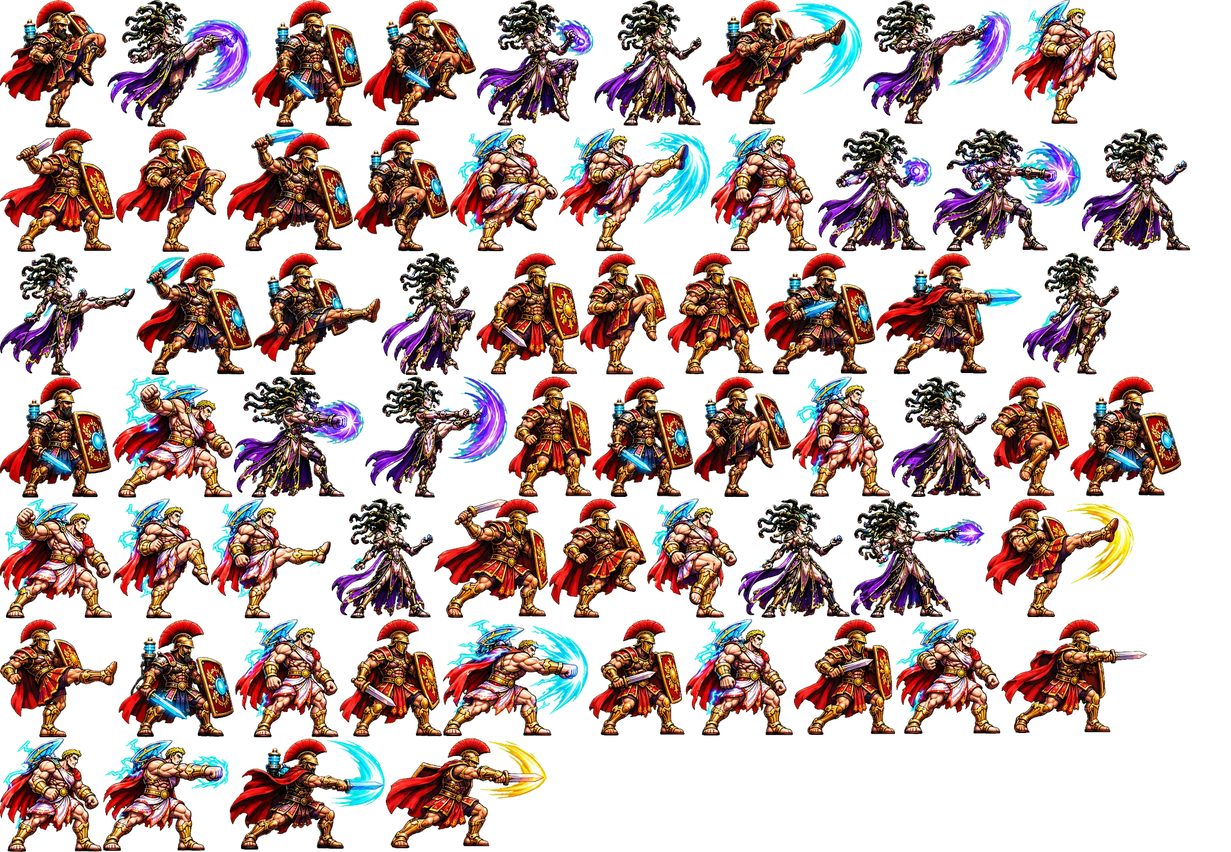
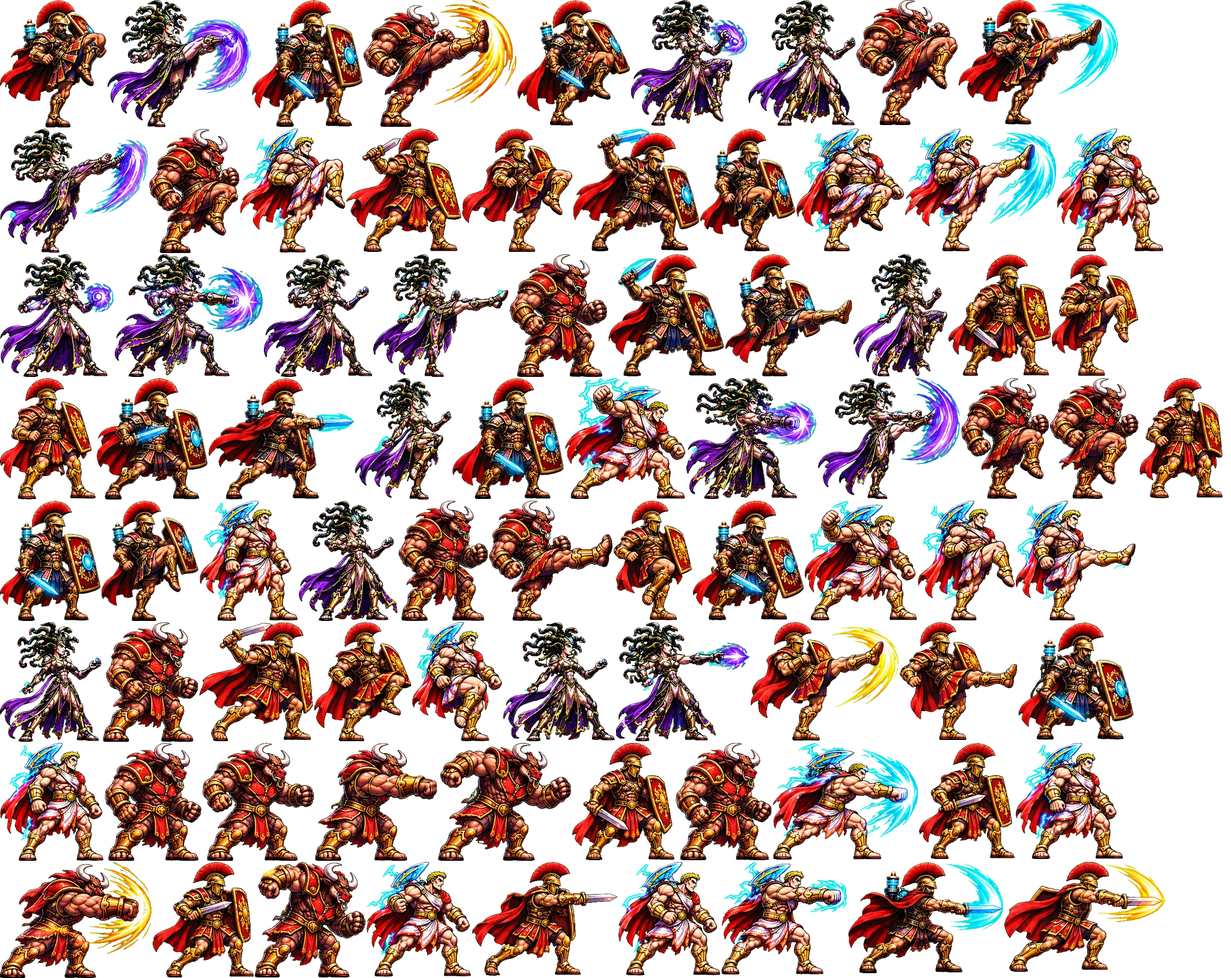
Roman Arena: 4-phase attack animation for Minotaur Engine
Claude-Session: https://claude.ai/code/session_01T4Ncn2a53aA1ppsRCuEJwC

diff --git a/fight/game.js b/fight/game.js
@@ -193,7 +193,7 @@
   const NATIVE = {"colossus":1,"medusa":1,"minotaur":1,"pegasus":1,"helios":1,"mars":-1,"neptune":1,"vulcan":1,"chiron":-1,"diana":1,"cerberus":1,"hades":1};   // which way each portrait faces in the art
   const FATLAS = {"f_mars":{"idle":[[1689,673,136,200,70,200],[1827,673,127,200,64,200]],"walk":[[741,1079,114,199,60,199],[1689,673,136,200,70,200],[1562,1079,114,198,62,198],[1689,673,136,200,70,200]],"jump":[[1562,1079,114,198,62,198]],"light":[[0,2062,161,187,72,187]],"heavy":[[753,2251,199,180,92,180]],"lkick":[[0,1676,164,192,66,192]],"hkick":[[166,1676,194,192,62,192]],"hurt":[[1337,2062,172,184,72,184]],"ko":[[1337,2062,172,184,72,184],[782,2768,239,64,119,64]],"special":[[1385,0,197,220,96,220]],"victory":[[857,1079,147,199,70,199]]},"f_colossus":{"idle":[[0,877,137,200,88,200],[139,877,129,200,80,200]],"walk":[[1811,1079,161,197,92,197],[0,877,137,200,88,200],[326,1281,140,196,92,196],[0,877,137,200,88,200]],"jump":[[326,1281,140,196,92,196]],"light":[[1755,1870,196,188,100,188]],"heavy":[[1734,2062,220,182,94,182]],"lkick":[[656,1480,146,193,92,193]],"hkick":[[1357,1870,227,189,90,189]],"hurt":[[614,2062,182,186,114,186]],"ko":[[614,2062,182,186,114,186],[1023,2768,223,63,111,63]],"special":[[1349,243,224,211,114,211]],"victory":[[1575,243,161,210,102,210]]},"f_medusa":{"idle":[[270,877,125,200,61,200],[1006,1079,139,199,61,199]],"walk":[[1793,1281,121,194,61,194],[270,877,125,200,61,200],[1248,1281,131,195,69,195],[270,877,125,200,61,200]],"jump":[[1248,1281,131,195,69,195]],"light":[[1546,2251,163,178,71,178]],"heavy":[[1183,2435,209,168,83,168]],"lkick":[[798,2062,123,185,55,185]],"hkick":[[923,2062,205,185,57,185]],"hurt":[[1656,2435,138,162,83,162]],"ko":[[1656,2435,138,162,83,162],[1507,2768,211,59,105,59]],"special":[[211,243,183,215,85,215]],"victory":[[1739,1676,135,190,69,190]]},"f_minotaur":{"idle":[[397,877,158,200,75,200],[929,461,146,205,75,205]],"walk":[[0,1281,137,197,63,197],[397,877,158,200,75,200],[468,1281,136,196,59,196],[397,877,158,200,75,200]],"jump":[[468,1281,136,196,59,196]],"light":[[1511,2062,221,183,91,183]],"heavy":[[163,2062,241,187,113,187]],"lkick":[[606,1281,134,196,71,196]],"hkick":[[742,1281,233,196,77,196]],"hurt":[[804,1480,177,193,85,193]],"ko":[[804,1480,177,193,85,193],[533,2768,247,69,123,69]],"special":[[437,461,244,208,117,208]],"victory":[[1738,243,186,210,103,210]]},"f_vulcan":{"idle":[[557,877,155,200,74,200],[933,673,153,201,74,201]],"walk":[[1774,461,154,202,70,202],[557,877,155,200,74,200],[1147,1079,167,199,80,199],[557,877,155,200,74,200]],"jump":[[1147,1079,167,199,80,199]],"light":[[954,2251,219,180,86,180]],"heavy":[[0,1870,243,190,136,190]],"lkick":[[362,1676,196,192,78,192]],"hkick":[[560,1676,238,192,80,192]],"hurt":[[0,1480,174,194,86,194]],"ko":[[0,1480,174,194,86,194],[1411,2614,250,85,125,85]],"special":[[1088,673,231,201,120,201]],"victory":[[484,0,202,235,90,235]]},"f_chiron":{"idle":[[714,877,162,200,81,200],[878,877,167,200,85,200]],"walk":[[800,1676,176,192,93,192],[714,877,162,200,81,200],[1563,1676,174,191,97,191],[714,877,162,200,81,200]],"jump":[[1563,1676,174,191,97,191]],"light":[[978,1676,189,192,101,192]],"heavy":[[176,1480,237,194,85,194]],"lkick":[[0,461,199,210,61,210]],"hkick":[[683,461,244,208,61,208]],"hurt":[[1047,877,171,200,75,200]],"ko":[[1047,877,171,200,75,200],[1663,2614,254,79,127,79]],"special":[[1584,0,238,220,103,220]],"victory":[[956,0,190,225,89,225]]},"f_diana":{"idle":[[1220,877,131,200,69,200],[1321,673,130,201,69,201]],"walk":[[1678,1079,131,198,71,198],[1220,877,131,200,69,200],[1169,1676,137,192,75,192],[1220,877,131,200,69,200]],"jump":[[1169,1676,137,192,75,192]],"light":[[1586,1870,167,189,83,189]],"heavy":[[1711,2251,235,177,119,177]],"lkick":[[1381,1281,184,195,53,195]],"hkick":[[1567,1281,224,195,55,195]],"hurt":[[1175,2251,165,180,77,180]],"ko":[[1175,2251,165,180,77,180],[1248,2768,257,63,128,63]],"special":[[1148,0,235,224,81,224]],"victory":[[1824,0,150,216,71,216]]},"f_cerberus":{"idle":[[1353,877,244,200,122,200],[1316,1079,244,199,122,199]],"walk":[[0,2251,239,182,124,182],[1353,877,244,200,122,200],[510,2251,241,181,130,181],[1353,877,244,200,122,200]],"jump":[[510,2251,241,181,130,181]],"light":[[417,2435,248,175,126,175]],"heavy":[[241,2251,267,182,120,181]],"lkick":[[415,1480,239,194,124,194]],"hkick":[[245,1870,255,190,116,190]],"hurt":[[396,243,217,215,112,215]],"ko":[[396,243,217,215,112,215],[689,2614,268,136,134,136]],"special":[[0,0,239,241,122,241]],"victory":[[241,0,241,239,132,238]]},"f_hades":{"idle":[[1599,877,168,200,78,200],[1769,877,167,200,78,200]],"walk":[[502,1870,182,190,94,190],[1599,877,168,200,78,200],[983,1480,188,193,98,193],[1599,877,168,200,78,200]],"jump":[[983,1480,188,193,98,193]],"light":[[255,2614,216,146,68,146]],"heavy":[[473,2614,214,140,64,140]],"lkick":[[1077,461,199,203,58,203]],"hkick":[[1130,243,217,213,66,213]],"hurt":[[1796,2435,214,161,64,161]],"ko":[[1796,2435,214,161,64,161],[959,2614,212,123,106,123]],"special":[[0,673,211,202,92,202]],"victory":[[213,673,212,202,104,202]]},"f_pegasus":{"idle":[[0,1079,190,200,95,200],[1173,1480,194,193,99,193]],"walk":[[1369,1480,199,193,97,193],[0,1079,190,200,95,200],[1570,1480,197,193,97,193],[0,1079,190,200,95,200]],"jump":[[1570,1480,197,193,97,193]],"light":[[1453,673,234,201,93,201]],"heavy":[[427,673,284,202,107,202]],"lkick":[[1278,461,223,203,83,203]],"hkick":[[1503,461,269,203,95,203]],"hurt":[[406,2062,206,187,121,187]],"ko":[[406,2062,206,187,121,187],[257,2768,274,72,137,72]],"special":[[840,243,288,214,85,214]],"victory":[[0,243,209,216,105,216]]},"f_helios":{"idle":[[192,1079,180,200,90,200],[374,1079,183,200,94,200]],"walk":[[1769,1480,162,193,92,193],[192,1079,180,200,90,200],[686,1870,155,190,88,190],[192,1079,180,200,90,200]],"jump":[[686,1870,155,190,88,190]],"light":[[1308,1676,253,192,88,192]],"heavy":[[843,1870,272,190,90,190]],"lkick":[[1117,1870,238,190,94,190]],"hkick":[[977,1281,269,196,104,196]],"hurt":[[0,2435,204,177,120,177]],"ko":[[0,2435,204,177,120,177],[1173,2614,236,96,118,96]],"special":[[688,0,266,232,134,232]],"victory":[[713,673,218,202,114,202]]},"f_neptune":{"idle":[[559,1079,180,200,90,200],[139,1281,185,197,96,197]],"walk":[[1342,2251,202,180,106,180],[559,1079,180,200,90,200],[0,2614,253,152,114,152],[559,1079,180,200,90,200]],"jump":[[0,2614,253,152,114,152]],"light":[[206,2435,209,177,80,177]],"heavy":[[930,2435,251,170,90,170]],"lkick":[[667,2435,261,174,80,174]],"hkick":[[1394,2435,260,168,60,168]],"hurt":[[1130,2062,205,185,104,185]],"ko":[[1130,2062,205,185,104,185],[0,2768,255,75,127,75]],"special":[[615,243,223,215,122,215]],"victory":[[201,461,234,210,122,210]]}};
   const FIGHTIMG = img('fighters.webp');
-  const AATLAS = {"a_mars":{"light":[[793,421,170,202,103,202],[1321,1031,168,192,105,192],[1666,1031,242,189,119,189],[980,1031,159,193,91,193]],"heavy":[[0,214,191,205,123,205],[723,830,189,198,125,198],[642,1229,268,183,111,183],[565,1031,170,195,101,195]],"lkick":[[846,627,138,200,77,200],[965,421,144,202,69,202],[0,1031,195,196,71,196],[1649,627,130,199,65,199]],"hkick":[[914,830,161,198,89,198],[193,214,183,205,93,205],[1640,830,246,197,75,197],[1111,421,159,202,85,202]]},"a_marcus":{"light":[[0,627,185,201,102,201],[1272,421,184,202,100,202],[1458,421,242,202,120,202],[1781,627,184,199,96,199]],"heavy":[[227,421,193,203,108,203],[378,214,209,204,128,204],[382,1229,258,185,82,185],[197,1031,192,196,104,196]],"lkick":[[986,627,167,200,88,200],[1155,627,161,200,72,200],[422,421,211,203,78,203],[589,214,158,204,80,204]],"hkick":[[605,0,187,209,92,209],[0,0,177,212,84,212],[1169,0,265,207,92,207],[419,0,184,211,98,211]],"idle":[[986,627,167,200,88,200],[419,0,184,211,98,211]],"walk":[[0,627,185,201,102,201],[986,627,167,200,88,200]],"jump":[[0,0,177,212,84,212]],"hurt":[[605,0,187,209,92,209]],"special":[[382,1229,258,185,82,185]],"victory":[[227,421,193,203,108,203]]},"a_colossus":{"light":[[391,1031,172,196,106,196],[1491,1031,173,191,106,191],[171,1229,209,187,102,187],[0,1229,169,189,98,189]],"heavy":[[0,830,186,199,120,199],[187,627,200,201,128,201],[737,1031,241,194,112,194],[1141,1031,178,193,106,193]],"lkick":[[1318,627,163,200,96,200],[188,830,161,199,100,199],[351,830,199,199,86,199],[1077,830,149,198,86,198]],"hkick":[[749,214,179,204,100,204],[1684,0,174,206,114,206],[930,214,251,204,92,204],[1183,214,176,204,106,204]]},"a_medusa":{"light":[[552,830,169,199,98,199],[1228,830,186,198,102,198],[1416,830,222,198,88,198],[1483,627,164,200,90,200]],"heavy":[[1361,214,189,204,98,204],[389,627,217,201,98,201],[1552,214,246,204,100,204],[1800,214,180,204,94,204]],"lkick":[[635,421,156,203,90,203],[0,421,225,204,92,204],[608,627,236,201,98,201],[1702,421,160,202,96,202]],"hkick":[[794,0,193,209,90,209],[179,0,238,212,92,212],[1436,0,246,207,86,207],[989,0,178,209,108,209]]}};   // 4-phase attack frames: wind-up, wind-up, strike, return
+  const AATLAS = {"a_mars":{"light":[[1578,423,170,202,103,202],[254,1434,168,192,105,192],[785,1434,242,189,119,189],[1529,1236,159,193,91,193]],"heavy":[[576,214,191,205,123,205],[332,1035,189,198,125,198],[1671,1434,268,183,111,183],[952,1236,170,195,101,195]],"lkick":[[1896,629,138,200,77,200],[1750,423,144,202,69,202],[1497,1035,195,196,71,196],[1021,833,130,199,65,199]],"hkick":[[523,1035,161,198,89,198],[769,214,183,205,93,205],[1249,1035,246,197,75,197],[0,629,159,202,85,202]]},"a_marcus":{"light":[[753,629,185,201,102,201],[161,629,184,202,100,202],[347,629,242,202,120,202],[1153,833,184,199,96,199]],"heavy":[[1012,423,193,203,108,203],[954,214,209,204,128,204],[1411,1434,258,185,82,185],[1694,1035,192,196,104,196]],"lkick":[[0,833,167,200,88,200],[169,833,161,200,72,200],[1207,423,211,203,78,203],[1165,214,158,204,80,204]],"hkick":[[861,0,187,209,92,209],[0,0,177,212,84,212],[1595,0,265,207,92,207],[419,0,184,211,98,211]],"idle":[[0,833,167,200,88,200],[419,0,184,211,98,211]],"walk":[[753,629,185,201,102,201],[0,833,167,200,88,200]],"jump":[[0,0,177,212,84,212]],"hurt":[[861,0,187,209,92,209]],"special":[[1411,1434,258,185,82,185]],"victory":[[1012,423,193,203,108,203]]},"a_colossus":{"light":[[0,1236,172,196,106,196],[610,1434,173,191,106,191],[1200,1434,209,187,102,187],[1029,1434,169,189,98,189]],"heavy":[[1339,833,186,199,120,199],[940,629,200,201,128,201],[1286,1236,241,194,112,194],[1690,1236,178,193,106,193]],"lkick":[[332,833,163,200,96,200],[1527,833,161,199,100,199],[1690,833,199,199,86,199],[686,1035,149,198,86,198]],"hkick":[[1325,214,179,204,100,204],[400,214,174,206,114,206],[1506,214,251,204,92,204],[1759,214,176,204,106,204]]},"a_medusa":{"light":[[0,1035,169,199,98,199],[837,1035,186,198,102,198],[1025,1035,222,198,88,198],[497,833,164,200,90,200]],"heavy":[[0,423,189,204,98,204],[1142,629,217,201,98,201],[191,423,246,204,100,204],[439,423,180,204,94,204]],"lkick":[[1420,423,156,203,90,203],[621,423,225,204,92,204],[1361,629,236,201,98,201],[591,629,160,202,96,202]],"hkick":[[1050,0,193,209,90,209],[179,0,238,212,92,212],[0,214,246,207,86,207],[1245,0,178,209,108,209]]},"a_minotaur":{"light":[[174,1236,161,196,81,196],[337,1236,185,196,85,196],[524,1236,203,196,83,196],[1124,1236,160,195,81,195]],"heavy":[[424,1434,184,192,87,192],[729,1236,221,196,91,196],[0,1434,252,193,91,193],[171,1035,159,199,79,199]],"lkick":[[663,833,149,200,73,200],[1599,629,146,201,73,201],[814,833,205,200,67,200],[1747,629,147,201,75,201]],"hkick":[[248,214,150,207,77,207],[1425,0,168,208,97,208],[605,0,254,211,75,211],[848,423,162,204,83,204]]}};   // 4-phase attack frames: wind-up, wind-up, strike, return
   const ATKIMG = img('attacks.webp');
   const ALL = Object.assign({}, ATLAS, EATLAS, XATLAS, MATLAS, FATLAS, AATLAS);
   const imgFor = (set) => (AATLAS[set] ? ATKIMG : FATLAS[set] ? FIGHTIMG : set === 'boss' || set === 'bfx' ? BOSSIMG : MATLAS[set] ? MARCUSIMG : XATLAS[set] ? ELITEIMG : EATLAS[set] ? ENEMYIMG : SPR);

diff --git a/fight/index.html b/fight/index.html
@@ -64,6 +64,6 @@
     </div>
   </section>
 </main>
-<script src="game.js?v=11"></script>
+<script src="game.js?v=12"></script>
 </body>
 </html>
